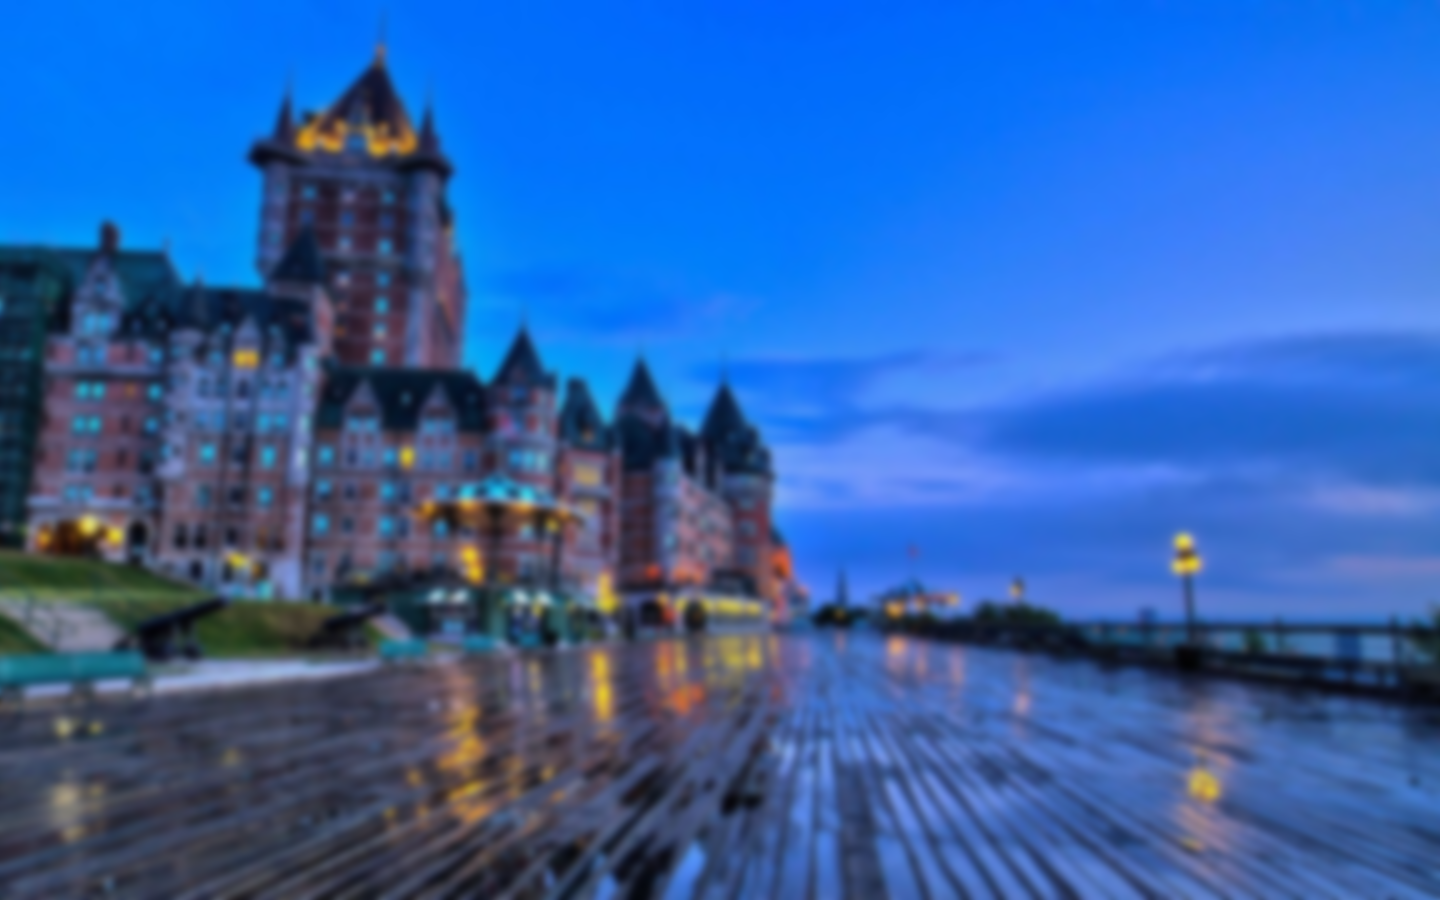
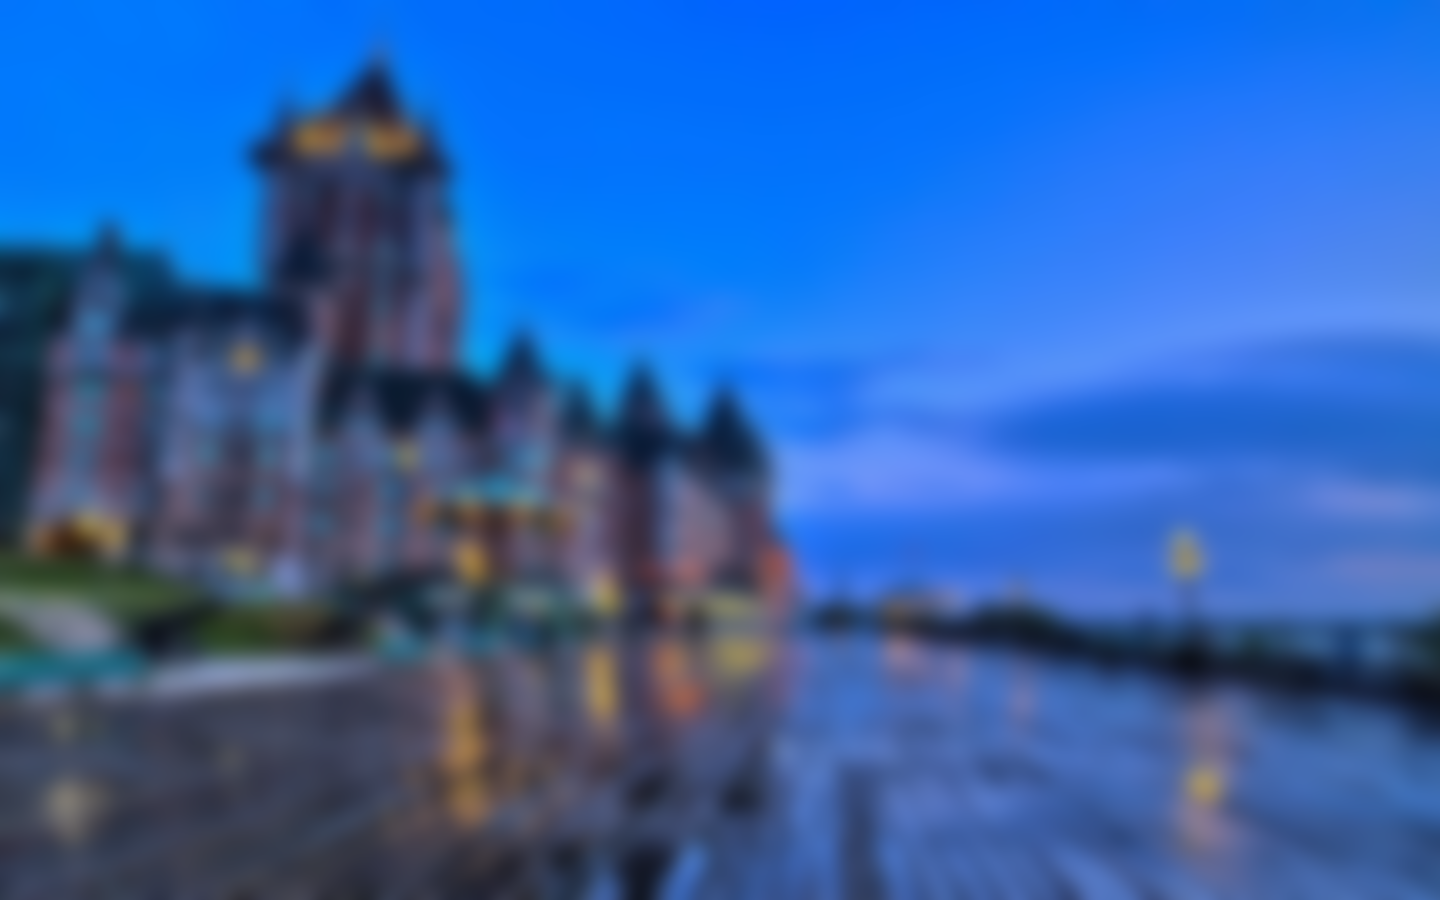
change image for drawer

diff --git a/pages/index.vue b/pages/index.vue
@@ -166,37 +166,7 @@
     </section>
     <HomeDrawer :data="drawerData" />
     <HomeProcess />
-    <section id="home-counter">
-      <div class="wrapper">
-        <div class="title-wrap">
-          <h1>选择我们 选择放心</h1>
-          <img src="/img/logos/logo-small-white.png" alt="" />
-        </div>
-        <a-row :gutter="[16, 16]">
-          <a-col :xs="12" :md="6" class="counter-item">
-            <h2>100+</h2>
-            <p>全球合作校园</p>
-          </a-col>
-          <a-col :xs="12" :md="6" class="counter-item">
-            <h2>6000+</h2>
-            <p>移民申请成功案例</p>
-          </a-col>
-          <a-col :xs="12" :md="6" class="counter-item">
-            <h2>98.1%</h2>
-            <p>移民申请通过率</p>
-          </a-col>
-          <a-col :xs="12" :md="6" class="counter-item">
-            <h2>1000+</h2>
-            <p>海外优质雇主资源</p>
-          </a-col>
-        </a-row>
-      </div>
-    </section>
-    <!-- <section id="home-slogen">
-      <div class="wrapper">
-        加彼岸致力于：帮助您和家人规划最符合您需求的移民项目，定制您的移民方案，让您和家人在彼岸顺利安家，享受到更好的教育、医疗、社会福利以及家庭资产的稳步升值。加彼岸，家彼岸。
-      </div>
-    </section> -->
+
     <section id="home-about">
       <div class="wrapper">
         <a-row :gutter="[24, 8]">
@@ -236,6 +206,39 @@
             />
           </a-col>
         </a-row>
+      </div>
+    </section>
+    <section id="home-blogs">
+      <div class="wrapper">
+        <MainTitle
+          title="加彼岸热讯"
+          titleEN="ARTICLES"
+          titleENColor="#f1f1f1"
+        />
+        <a-tabs class="blog-tabs" default-active-key="tab-0">
+          <a-tab-pane
+            v-for="(blog, key, i) in blogs"
+            :key="'tab-' + i"
+            :tab="key"
+          >
+            <div class="blogs-grid">
+              <div class="blog-item" v-for="(b, index) in blog" :key="index">
+                <BlogCard
+                  :thumbnail="b.thumbnail_cn.url"
+                  :title="b.title_cn"
+                  :description="b.description_cn"
+                  :date="b.published_at.split('T')[0]"
+                  :link="'/blogs/' + b.slug"
+                />
+              </div>
+            </div>
+            <NuxtLink :to="`/blogs${i != 0 ? '?category=' + i : ''}`">
+              <button class="cases-btn main-btn main-btn_blue main-btn_round-5">
+                更多资讯
+              </button>
+            </NuxtLink>
+          </a-tab-pane>
+        </a-tabs>
       </div>
     </section>
     <section id="home-cases">
@@ -287,39 +290,62 @@
         </a-carousel>
       </div>
     </section> -->
-    <section id="home-blogs">
+    <section id="home-counter">
       <div class="wrapper">
-        <MainTitle
-          title="加彼岸热讯"
-          titleEN="ARTICLES"
-          titleENColor="#c4c4c4"
-        />
-        <a-tabs class="blog-tabs" default-active-key="tab-0">
-          <a-tab-pane
-            v-for="(blog, key, i) in blogs"
-            :key="'tab-' + i"
-            :tab="key"
-          >
-            <div class="blogs-grid">
-              <div class="blog-item" v-for="(b, index) in blog" :key="index">
-                <BlogCard
-                  :thumbnail="b.thumbnail_cn.url"
-                  :title="b.title_cn"
-                  :description="b.description_cn"
-                  :date="b.published_at.split('T')[0]"
-                  :link="'/blogs/' + b.slug"
-                />
-              </div>
-            </div>
-            <NuxtLink :to="`/blogs${i != 0 ? '?category=' + i : ''}`">
-              <button class="cases-btn main-btn main-btn_blue main-btn_round-5">
-                更多资讯
-              </button>
-            </NuxtLink>
-          </a-tab-pane>
-        </a-tabs>
+        <div class="title-wrap">
+          <h1>选择我们 选择放心</h1>
+          <img src="/img/logos/logo-small-white.png" alt="" />
+        </div>
+        <a-row :gutter="[16, 16]">
+          <a-col :xs="12" :md="6" class="counter-item">
+            <h2>100+</h2>
+            <p>全球合作校园</p>
+          </a-col>
+          <a-col :xs="12" :md="6" class="counter-item">
+            <h2>6000+</h2>
+            <p>移民申请成功案例</p>
+          </a-col>
+          <a-col :xs="12" :md="6" class="counter-item">
+            <h2>98.1%</h2>
+            <p>移民申请通过率</p>
+          </a-col>
+          <a-col :xs="12" :md="6" class="counter-item">
+            <h2>1000+</h2>
+            <p>海外优质雇主资源</p>
+          </a-col>
+        </a-row>
       </div>
     </section>
+    <section id="home-slogen">
+      <div class="wrapper">
+        <div>
+          加彼岸致力于：帮助您和家人规划最符合您需求的移民项目，定制您的移民方案，让您和家人在彼岸顺利安家，享受到更好的教育、医疗、社会福利以及家庭资产的稳步升值。加彼岸，家彼岸。
+        </div>
+        <div class="titles">
+          Luna Wang
+          <small>
+            <br />加彼岸出国咨询创始人 <br />C101青年创业会联合创始人
+            <br />朗博天使投资人联盟董事会成员
+          </small>
+        </div>
+      </div>
+    </section>
+    <!-- <section id="home-evaluation">
+      <div class="wrapper">
+        <div class="content">
+          <div class="title">
+            <h1>加彼岸，家彼岸</h1>
+            <h2>为您量身定制整体移居方案</h2>
+          </div>
+          <form class="evaluation-form" @submit.prevent="handleSubmit">
+            <input type="text" v-model="contactInfo" placeholder="输入邮箱或微信号" required />
+            <button type="submit" class="submit-btn main-btn main-btn_blue">
+              免费评估
+            </button>
+          </form>
+        </div>
+      </div>
+    </section> -->
   </div>
 </template>
 
@@ -560,7 +586,30 @@ export default {
           ],
         },
       ],
+      contactInfo: "",
     };
+  },
+  methods: {
+    async handleSubmit(e) {
+      e.preventDefault();
+      try {
+        this.$axios
+          .post(
+            `https://beyond-canada-back-staging.herokuapp.com/free-evaluations`,
+            {
+              contact_info: this.contactInfo,
+            }
+          )
+          .then((response) => {
+            this.$message.info("感谢您提供联系信息。我们会尽快和您联系。");
+            console.log("submitted");
+            this.contactInfo = "";
+          });
+      } catch (error) {
+        this.$message.info("出现错误，请稍后再试。");
+        console.log(error);
+      }
+    },
   },
   mounted() {
     const swiper = new Swiper(".home-swiper", {
@@ -1087,19 +1136,74 @@ header .info-wrap {
     }
   }
 }
-#home-slogen{
-  padding: 50px 0;
+#home-slogen {
+  padding: 100px 0;
+  background-color: #fff;
   color: $navy;
-  background-color: #efefef;
   font-size: 18px;
   text-align: center;
+  .wrapper {
+    display: grid;
+    grid-template-columns: 3fr 1fr;
+    position: relative;
+    > div {
+      padding: 35px 60px;
+    }
+    .titles {
+      text-align: left;
+      border-left: 2px solid #efefef;
+    }
+    &::before {
+      top: 0;
+      left: -40px;
+    }
+    &::after {
+      bottom: 0;
+      right: -40px;
+      transform: rotate(180deg);
+    }
+  }
+  .wrapper::before,
+  .wrapper::after {
+    background-image: url("/img/quote.webp");
+    background-size: contain;
+    background-repeat: no-repeat;
+    display: inline-block;
+    content: "";
+    height: 30px;
+    width: 40px;
+    opacity: 0.3;
+    position: absolute;
+  }
+}
+@media all and (max-width: $sm) {
+  #home-slogen {
+    padding: 60px 0;
+    font-size: 16px;
+    .wrapper {
+      grid-template-columns: 1fr;
+      > div {
+        padding: 40px 10px;
+      }
+      .titles {
+        border-left: none;
+        border-top: 2px solid #efefef;
+      }
+      &::before {
+        left: 0;
+      }
+      &::after {
+        right: 0;
+      }
+    }
+  }
 }
 /* ------------------------------------------------------ */
 /*                   ANCHOR ABOUT STYLE                   */
 /* ------------------------------------------------------ */
 #home-about {
   padding: 50px 0;
-
+  background-color: #efefef;
   .about-img {
     border-radius: 10px;
   }
@@ -1195,18 +1299,56 @@ header .info-wrap {
 /* ------------------------------------------------------ */
 #home-blogs {
   padding: 100px 0;
-  background-color: #efefef;
-}
-#home-blogs .blogs-grid {
-  display: grid;
-  grid-template-columns: repeat(4, 1fr);
-  column-gap: 30px;
+  background-color: #fff;
+  .blogs-grid {
+    display: grid;
+    grid-template-columns: repeat(4, 1fr);
+    column-gap: 30px;
+  }
+  .blog-tabs {
+    overflow: visible;
+  }
 }
 
 @media all and (max-width: 768px) {
   #home-blogs .blogs-grid {
     grid-template-columns: repeat(1, 1fr);
     row-gap: 20px;
+  }
+}
+
+#home-evaluation {
+  padding: 100px 0;
+  background-color: #efefef;
+  .title {
+    margin-bottom: 30px;
+  }
+  .content {
+    margin: auto;
+    display: grid;
+    grid-template-columns: 1fr;
+    width: 900px;
+    h1,
+    h2 {
+      margin: 0;
+      color: $navy;
+    }
+  }
+  form {
+    display: flex;
+    justify-content: flex-start;
+    input {
+      border: none;
+      border-radius: 10px 0 0 10px;
+      padding: 10px 20px;
+      width: 350px;
+    }
+    .submit-btn {
+      margin-bottom: 0;
+      padding: 10px 20px;
+      font-size: 14px;
+      border-radius: 0 10px 10px 0;
+    }
   }
 }
 </style>

diff --git a/components/BlogCard.vue b/components/BlogCard.vue
@@ -41,6 +41,7 @@ export default {
   display: flex;
   flex-direction: column;
   align-items: center;
+  box-shadow: 4px 4px 15px 0px rgb(0 0 0 / 30%);
   img {
     width: 100%;
     height: auto;